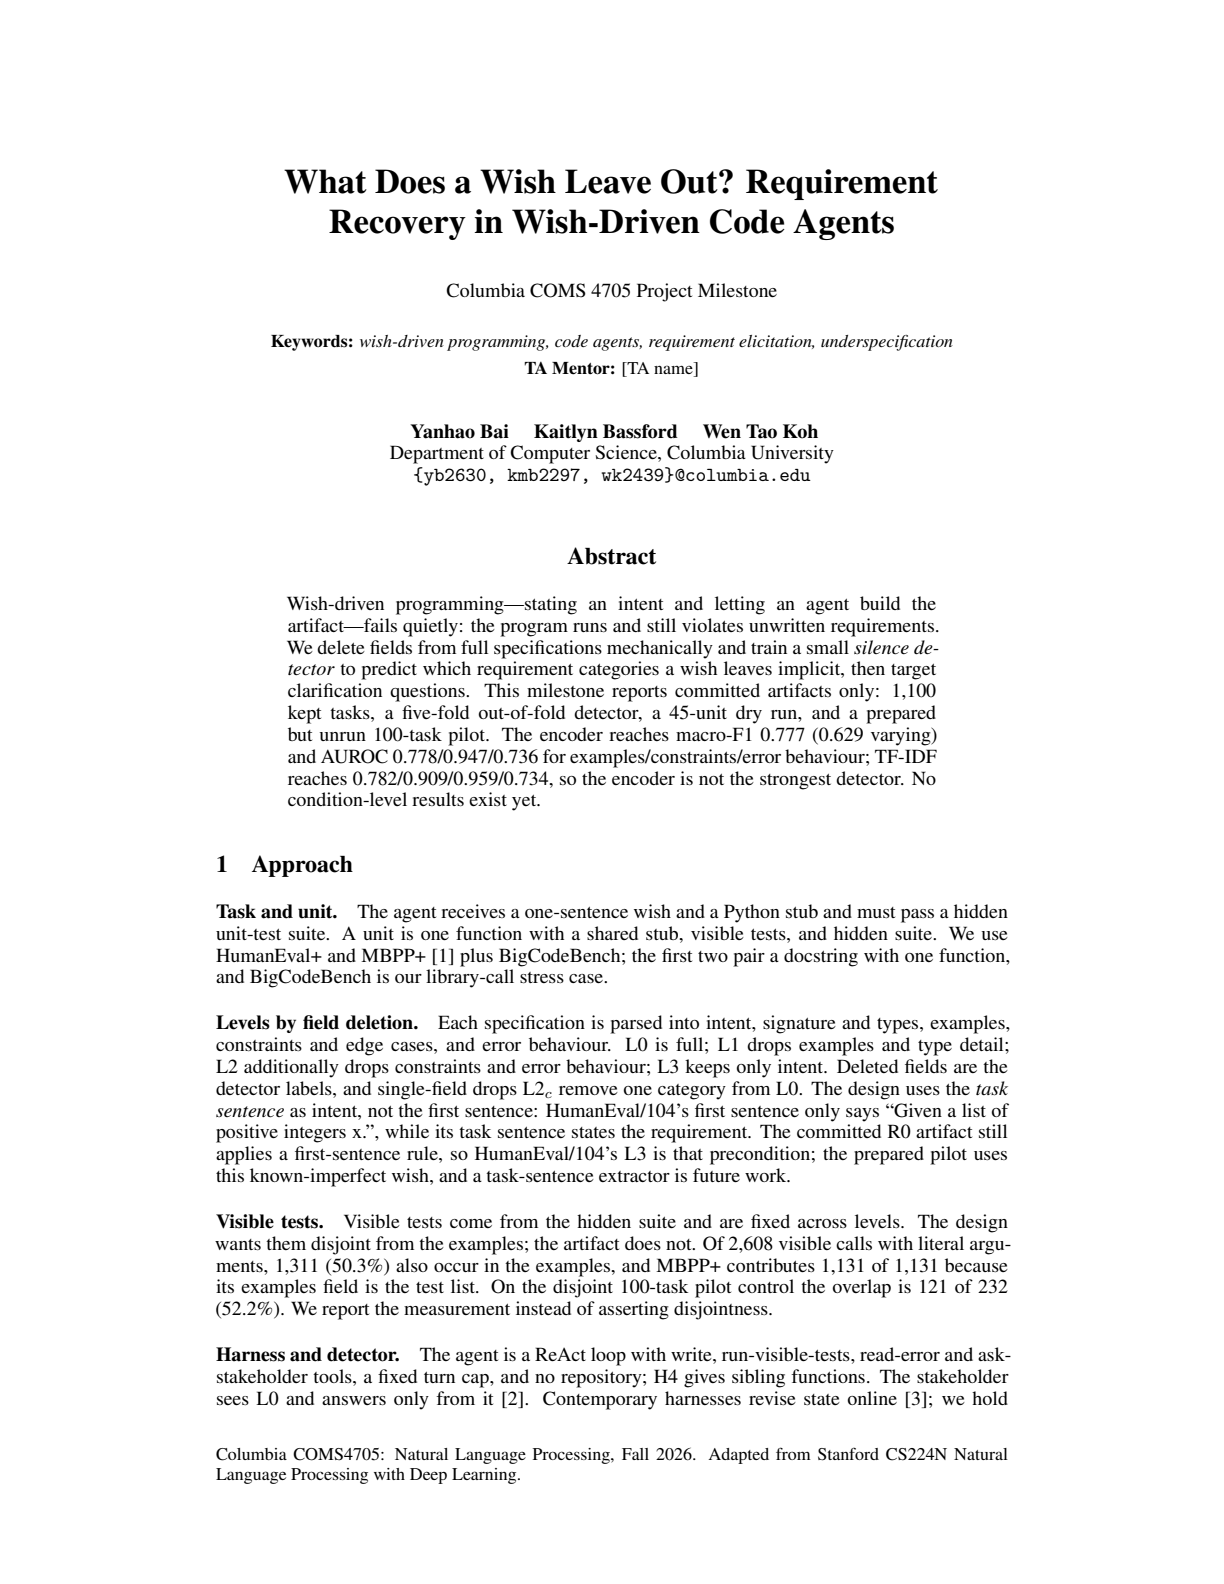
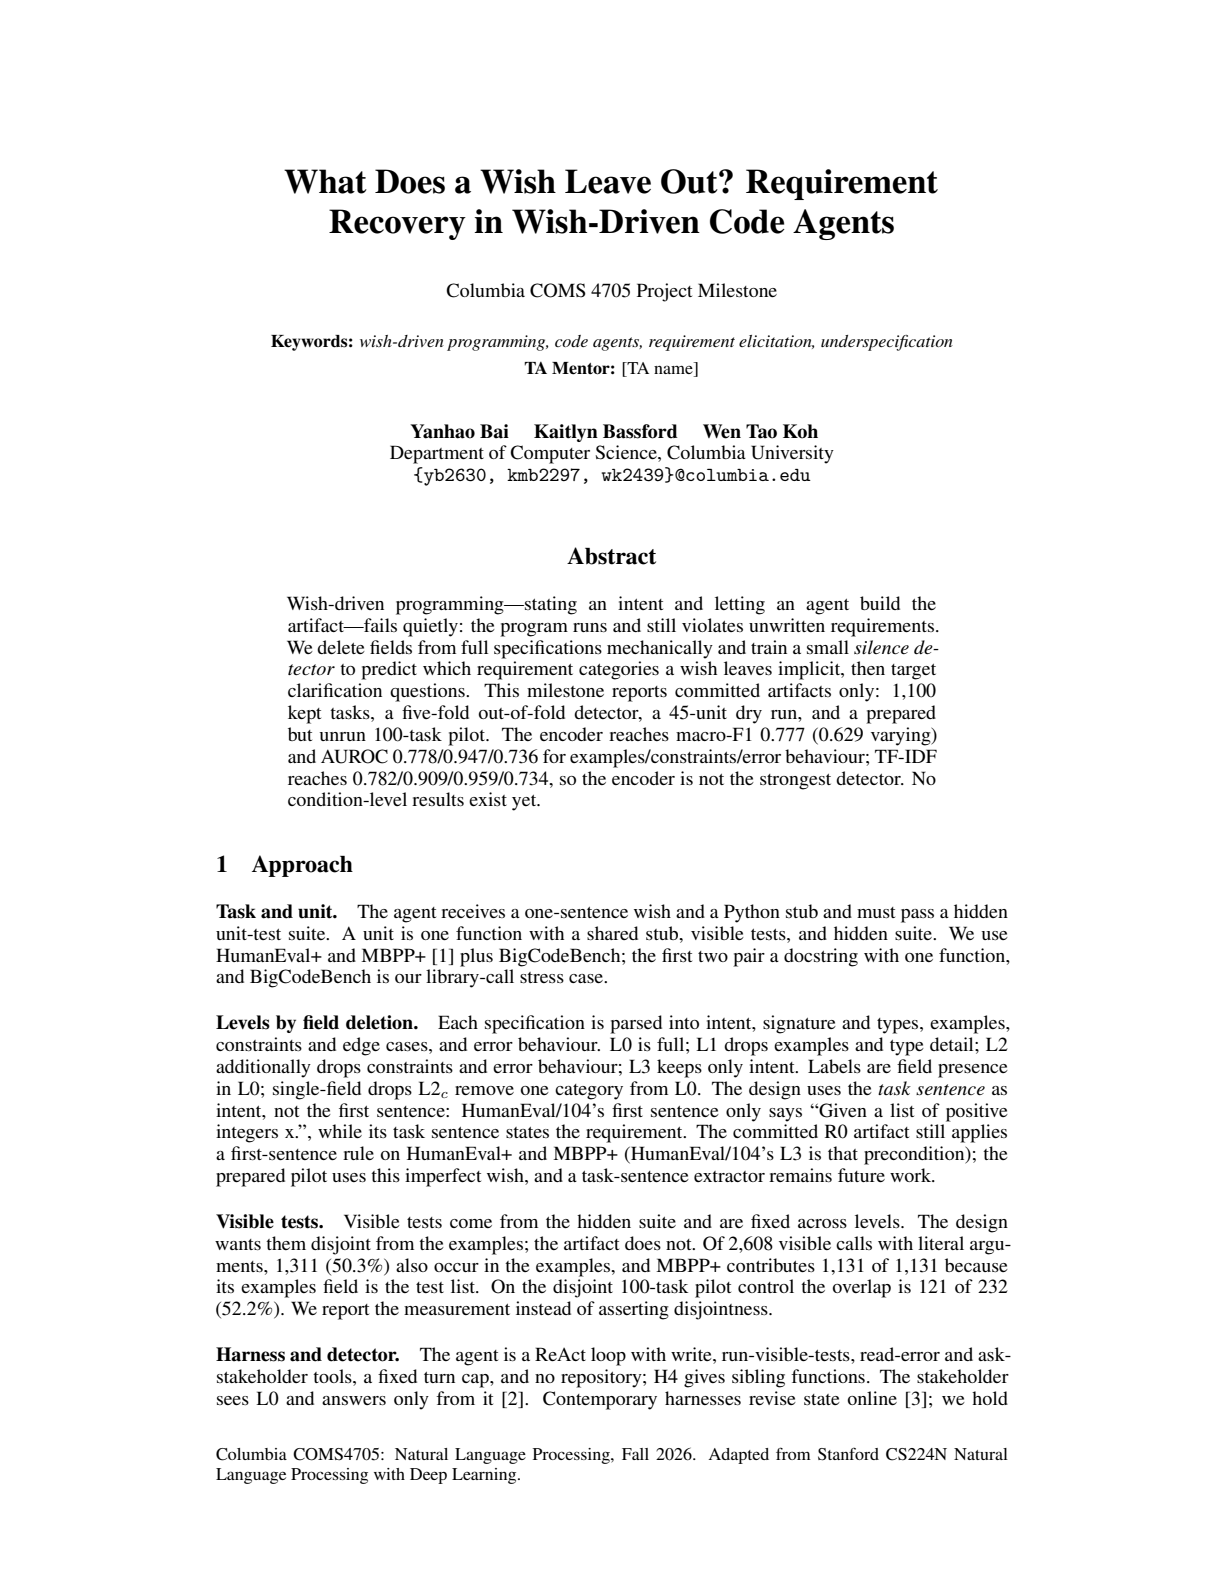
Clarify label and condition wording after self-review
Name the first-sentence scope, state the L0-presence label directly, and give B3 the stub. Rebuild the PDF and refresh the after captures.

Changed region(s): [[0.1552, 0.6496, 0.8382, 0.7734]]

diff --git a/paper/milestone/main.tex b/paper/milestone/main.tex
@@ -91,12 +91,12 @@ and BigCodeBench is our library-call stress case.
 \paragraph{Levels by field deletion.}
 Each specification is parsed into intent, signature and types, examples, constraints and edge
 cases, and error behaviour. L0 is full; L1 drops examples and type detail; L2 additionally drops
-constraints and error behaviour; L3 keeps only intent. Deleted fields are the detector labels,
-and single-field drops L2$_c$ remove one category from L0. The design uses the \emph{task
+constraints and error behaviour; L3 keeps only intent. Labels are field presence in L0; single-field drops L2$_c$ remove one category from L0. The design uses the \emph{task
 sentence} as intent, not the first sentence: HumanEval/104's first sentence only says ``Given a
 list of positive integers x.'', while its task sentence states the requirement. The committed R0
-artifact still applies a first-sentence rule, so HumanEval/104's L3 is that precondition; the
-prepared pilot uses this known-imperfect wish, and a task-sentence extractor is future work.
+artifact still applies a first-sentence rule on HumanEval+ and MBPP+ (HumanEval/104's L3 is
+that precondition); the prepared pilot uses this imperfect wish, and a task-sentence extractor
+remains future work.
 
 \paragraph{Visible tests.}
 Visible tests come from the hidden suite and are fixed across levels. The design wants them
@@ -120,22 +120,22 @@ and a defensive-coding instruction.
 H0 is the plain loop; H1 writes acceptance tests first; H2 asks generic questions; H3 asks
 detector-targeted questions; H4 exposes sibling functions; H5, planned, evolves the harness
 offline on 200 development wishes with RRSI's edits \citep{xia2026rrsi}. B1 gives L0 as the
-ceiling; B2 spends the budget on extra samples; B3 is a frontier model given only the wish;
+ceiling; B2 spends the budget on extra samples; B3 is a frontier model given only the wish and stub;
 DISCARD asks H3's questions and withholds answers. The prepared pilot runs H0--H4, B1--B3, and
 DISCARD. Harness$^2$ evolves harnesses without ground-truth verifiers, reporting up to 11.5
 points on WorkBuddy-Bench, 4.5 on JobBench, and 11.8 percentage points on LAB
 \citep{xu2026harness2}. HarnessPro evolves harnesses label-free with LLM-generated executable
 tests instead of an LLM judge, reporting +2.0 percentage points and 26.1\% lower per-task cost
-than RHO in its heavy mode \citep{pan2026harnesspro}. H5 is verifier-free, so these works bound it.
+than RHO in its heavy mode \citep{pan2026harnesspro}. H5 is an offline evolution step, so these works bound it.
 
 \section{Experiments}
 
 \paragraph{Data and splits.}
 Of 1{,}682 source rows, 1{,}676 parse and 1{,}573 validate; 1{,}100 are kept (157 HumanEval+,
-377 MBPP+, 566 BigCodeBench), with 109 exclusions. The split is 500 train, 200 evolution, 300
+377 MBPP+, 566 BigCodeBench). The split is 500 train, 200 evolution, 300
 held-out, and a disjoint 100-task pilot (seed 20261121). Kept-set prevalence is 1.000 (intent,
 signature/types), 0.973 (examples), 0.645 (constraints), and 0.134 (error behaviour); error
-behaviour has 63 train and 147 kept positives. Held-out tasks are untouched.
+behaviour has 63 train and 147 kept positives.
 
 \paragraph{Detector results.}
 Table~\ref{tab:detector} gives five-fold out-of-fold detection. The
@@ -176,8 +176,8 @@ We will run the prepared pilot, then scale to the 300 held-out tasks and more se
 replace the first-sentence L3 with a task-sentence extractor and make visible tests disjoint from
 examples; MBPP+ duplicates its test list in both fields. We will run H5, finish DISCARD, compare
 the encoder with TF-IDF, and add a source with explicit error-behaviour annotations. The
-proposal-feedback changes are in place: mechanical field deletion replaced LLM rewriting, and
-the harness question is the H4 experiment; the pilot will settle it.
+proposal-feedback changes are in place: field deletion replaced LLM rewriting, and the harness
+question is the H4 experiment; the pilot will settle it.
 
 \bibliographystyle{unsrt}
 \bibliography{references}
